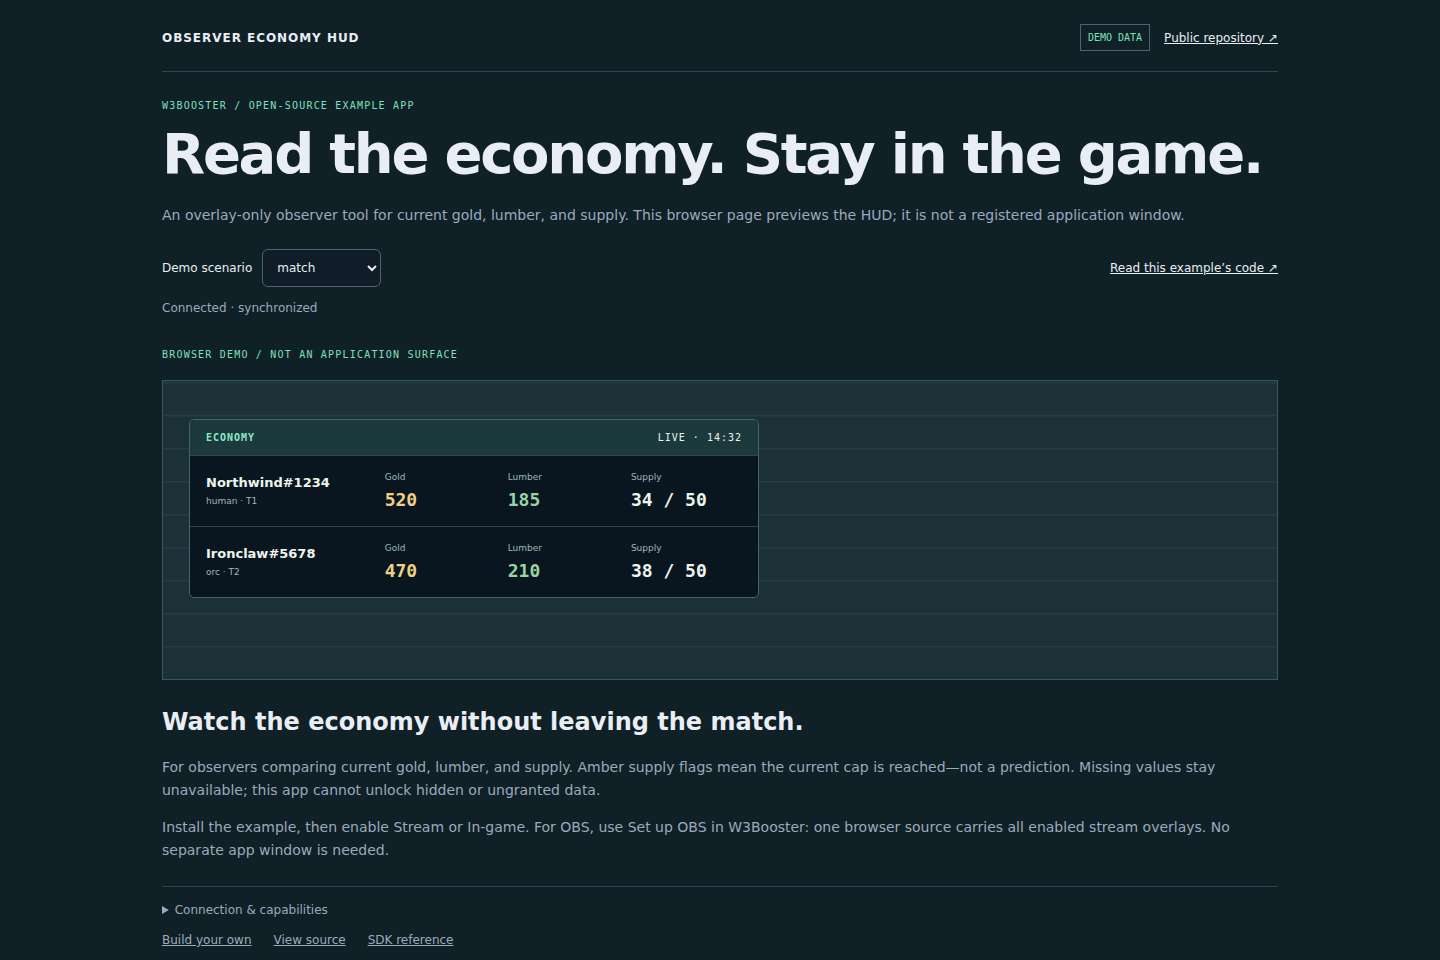
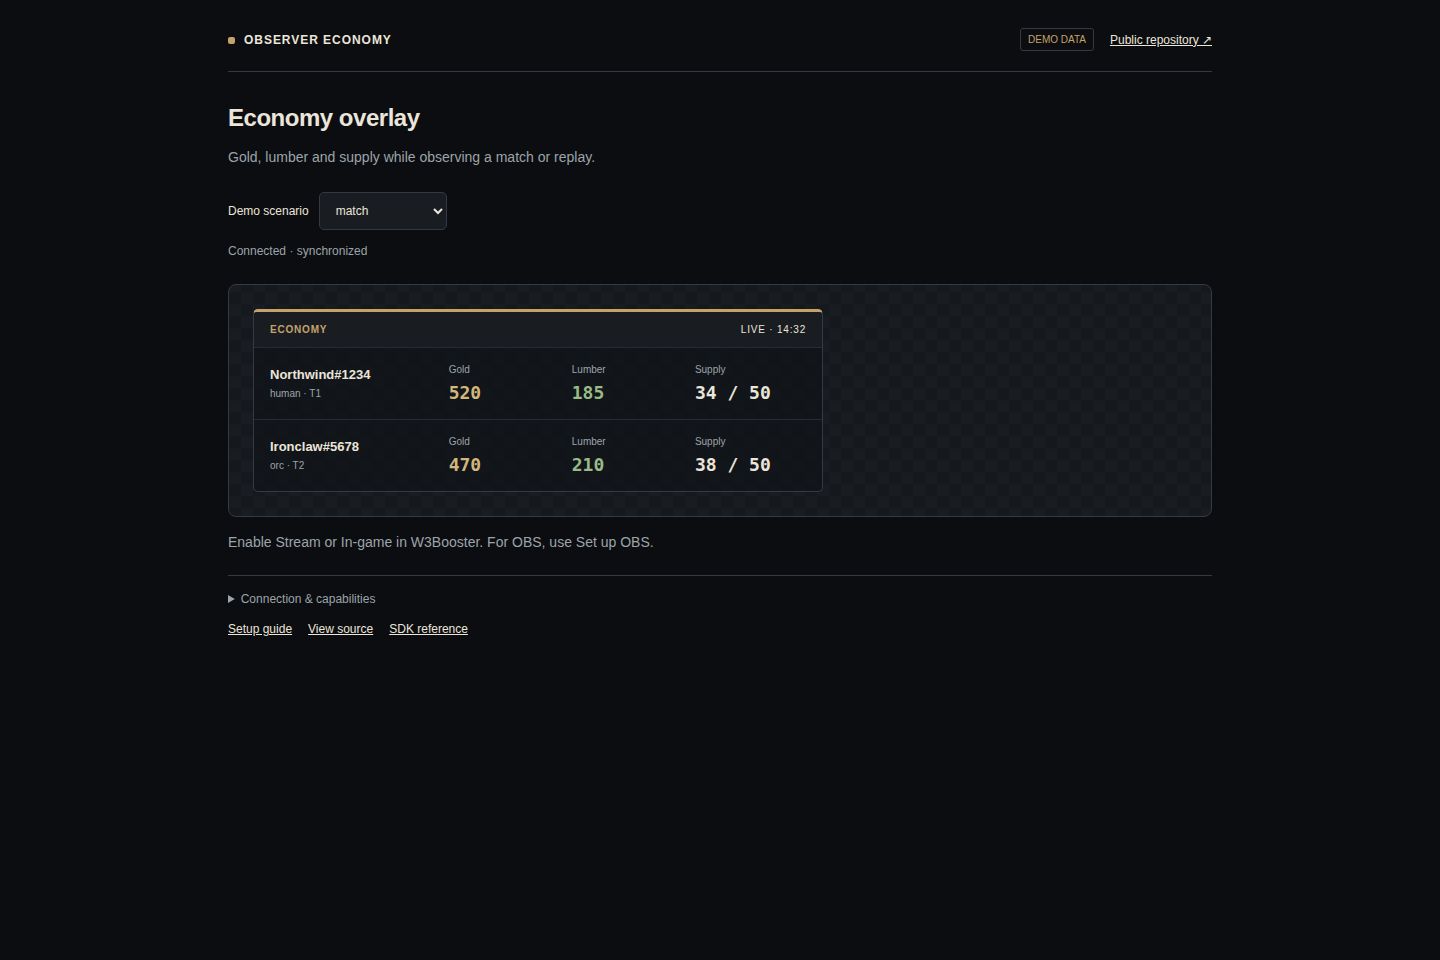
Use compact W3Booster styling and task-focused economy copy

diff --git a/src/hud.css b/src/hud.css
@@ -1,4 +1,19 @@
-:root{font-family:Inter,ui-sans-serif,system-ui,sans-serif;color:#e9eef4;background:#101720;font-synthesis:none}*{box-sizing:border-box}body{margin:0;--muted:#9caabc;--accent:#83d9c0}a{color:inherit}button,input,textarea,select{font:inherit}button{cursor:pointer;border:1px solid #51616f;border-radius:6px;padding:10px 14px;background:#1e3038;color:inherit}button:disabled{opacity:.45;cursor:not-allowed}input,textarea,select{border:1px solid #51616f;border-radius:6px;padding:10px;color:inherit;background:#101d28}textarea{width:100%;resize:vertical}h1,h2,h3,p{margin-top:0}p{color:var(--muted);line-height:1.65;font-size:14px}h1{font-size:clamp(32px,5vw,56px);letter-spacing:-.04em;margin:10px 0 18px}.shell{max-width:1180px;margin:auto;padding:24px 32px}header{display:flex;justify-content:space-between;align-items:center;gap:18px;border-bottom:1px solid #34424e;padding-bottom:20px}.brand{font-size:12px;font-weight:800;text-decoration:none;letter-spacing:.08em}.header-actions{display:flex;gap:14px;align-items:center;font-size:12px}.badge{font:10px ui-monospace,monospace;color:var(--accent);border:1px solid #51616f;padding:7px}.intro{padding:28px 0 8px}.eyebrow{font:10px ui-monospace,monospace;letter-spacing:.12em;color:var(--accent)}.controls{display:flex;flex-wrap:wrap;gap:14px;align-items:center;font-size:12px}.controls label{display:flex;gap:10px;align-items:center}.source-link{margin-left:auto}.notice{font-size:12px;margin:12px 0}.notice:empty{display:none}.content{margin:24px 0}.diagnostics{border-top:1px solid #34424e;padding:16px 0;color:var(--muted);font-size:12px}summary{cursor:pointer}pre{white-space:pre-wrap;overflow-wrap:anywhere}footer{display:flex;gap:22px;font-size:12px;color:var(--muted)}:focus-visible{outline:3px solid var(--accent);outline-offset:3px}[hidden]{display:none!important}html.overlay-root,body.overlay{background:transparent;min-height:0}.overlay .shell{max-width:none;padding:12px}.overlay header,.overlay .intro,.overlay .controls,.overlay .diagnostics,.overlay footer,.overlay .shell>.notice{display:none}.overlay .content{margin:0}.overlay[data-synchronized="false"] .content{visibility:hidden}@media(max-width:680px){.shell{padding:18px 14px}.header-actions{flex-wrap:wrap;justify-content:flex-end;gap:8px}.brand{max-width:120px}.source-link{margin-left:0}}
-body{background:#102027;--accent:#7ce0bb}.hud-stage{padding:38px 26px;margin:18px 0 28px;min-height:300px;background:repeating-linear-gradient(0deg,#1c3037 0 31px,#243d43 32px 33px);border:1px solid #37575a}.economy{width:570px;max-width:100%;background:#0a151df2;border:1px solid #466568;border-radius:5px;overflow:hidden;color:#edf5ed}.economy-heading{display:flex;justify-content:space-between;gap:12px;padding:12px 16px;background:#1c393e;font:10px ui-monospace,monospace;letter-spacing:.1em}.economy-heading strong{color:#8aebc8}.resource-card{display:grid;grid-template-columns:minmax(110px,1.5fr) repeat(3,minmax(60px,1fr));gap:12px;padding:16px;border-top:1px solid #31464c;align-items:center}.resource-player{display:grid;gap:6px;min-width:0}.resource-player strong{font-size:13px;overflow-wrap:anywhere}.resource-player span,.resource-value>span{font-size:9px;color:#9eb7bc}.resource-value{display:grid;gap:7px}.resource-value strong{font:700 18px ui-monospace,monospace;white-space:nowrap}.gold strong{color:#efd185}.lumber strong{color:#95d4a3}.supply.blocked{color:#ffd18b}.supply.blocked>span{color:#ffd18b}.unavailable{grid-column:1/-1;color:#c4b997;font-size:10px}.hud-preview h2{font-size:24px}.overlay .economy{width:570px}@media(max-width:460px){.hud-stage{padding:12px}.resource-card{grid-template-columns:repeat(3,1fr);gap:10px}.resource-player{grid-column:1/-1}.resource-value strong{font-size:16px}}
-:root.overlay-root{color-scheme:normal}
-.economy-notice{padding:20px 22px;border-left:3px solid var(--accent)}.economy-notice .eyebrow{display:block;margin-bottom:10px}.economy .economy-notice h2{margin:0 0 8px;font-size:18px;line-height:1.35}.economy-notice p{margin:0;font-size:13px;color:#b1c6c9}
+body { --accent: #c6a26b; }
+.hud-stage { padding: 24px; border: 1px solid var(--border); border-radius: 8px; background: repeating-conic-gradient(#191d22 0 25%, #15181c 0 50%) 0/24px 24px; }
+.economy { width: 570px; max-width: 100%; background: #121519f5; border: 1px solid var(--border); border-top: 3px solid var(--accent); border-radius: 5px; overflow: hidden; color: var(--text); }
+.economy-heading { display: flex; justify-content: space-between; gap: 12px; padding: 12px 16px; background: var(--raised); font-size: 10px; letter-spacing: .08em; }
+.economy-heading strong { color: var(--accent); }
+.resource-card { display: grid; grid-template-columns: minmax(110px,1.5fr) repeat(3,minmax(60px,1fr)); gap: 12px; padding: 16px; border-top: 1px solid #272c32; align-items: center; }
+.resource-player { display: grid; gap: 6px; min-width: 0; }
+.resource-player strong { font-size: 13px; overflow-wrap: anywhere; }
+.resource-player span, .resource-value > span { font-size: 10px; color: var(--muted); }
+.resource-value { display: grid; gap: 7px; }
+.resource-value strong { font: 700 18px ui-monospace, monospace; white-space: nowrap; }
+.gold strong { color: #d2b77c; }
+.lumber strong { color: #9abb89; }
+.supply.blocked, .supply.blocked > span { color: #dbad70; }
+.unavailable { grid-column: 1/-1; color: #c4b997; font-size: 11px; }
+.economy-notice { padding: 20px; }
+.economy-notice h2 { margin: 10px 0; }
+.economy-notice p { margin: 0; font-size: 13px; }
+@media (max-width: 460px) { .hud-stage { padding: 12px; } .resource-card { grid-template-columns: repeat(3,1fr); } .resource-player { grid-column: 1/-1; } .resource-value strong { font-size: 16px; } }

diff --git a/src/main.ts b/src/main.ts
@@ -1,3 +1,4 @@
+import './shell.css';
 import './hud.css';
 import { classifyW3BoosterError } from '@w3booster/sdk';
 import { w3boosterApp } from './w3booster.generated';
@@ -9,7 +10,7 @@ document.body.dataset.application = w3boosterApp.clientId;
 // One repository, one app.
 const view = query.get('view') || 'application';
 const theme = 'economy';
-const presentation = { brand: 'OBSERVER ECONOMY', title: 'Read the economy. Stay in the game.', description: 'An overlay-only observer tool for current gold, lumber, and supply. This browser page previews the HUD; it is not a registered application window.' };
+const presentation = { brand: 'OBSERVER ECONOMY', title: 'Economy overlay', description: 'Gold, lumber and supply while observing a match or replay.' };
 document.body.dataset.theme = theme;
 document.title = presentation.brand + ' · W3Booster Examples';
 // Direct visits start offline; registered W3Booster URLs explicitly select demo=0.
@@ -26,7 +27,7 @@ const repository = element('a', 'Public repository ↗', 'repository-link'); rep
 const badge = element('span', demo ? 'DEMO DATA' : 'LIVE CONNECTION', 'badge'); headerActions.append(badge, repository); header.append(headerActions);
 const intro = element('div', '', 'intro');
 const appTitle = element('h1', presentation.title);
-intro.append(element('p', 'W3BOOSTER / OPEN-SOURCE EXAMPLE APP', 'eyebrow'), appTitle);
+intro.append(appTitle);
 intro.append(element('p', presentation.description));
 const status = element('p', 'Starting…', 'notice'); status.setAttribute('role', 'status');
 const content = element('div', '', 'content');
@@ -44,10 +45,9 @@ if (demo) {
 }
 const feedback = element('p', '', 'notice'); feedback.setAttribute('role', 'status');
 const footer = element('footer');
-for (const [text, href] of [['Build your own', 'https://website.w3booster.com/developer/first-app/'], ['View source', 'https://github.com/W3Booster/app-example-resource-monitor'], ['SDK reference', 'https://website.w3booster.com/developer/api/']]) {
+for (const [text, href] of [['Setup guide', 'https://website.w3booster.com/developer/first-app/'], ['View source', 'https://github.com/W3Booster/app-example-resource-monitor'], ['SDK reference', 'https://website.w3booster.com/developer/api/']]) {
   const link = element('a', text); link.href = href; footer.append(link);
 }
-const sourceLink = element('a', 'Read this example’s code ↗', 'source-link'); sourceLink.href = 'https://github.com/W3Booster/app-example-resource-monitor/blob/main/src/hud.ts'; sourceLink.target = '_blank'; sourceLink.rel = 'noopener noreferrer'; controls.append(sourceLink);
 shell.append(header, intro);
 shell.append(controls, status, content, feedback, diagnostic, footer); root.replaceChildren(shell);
 const demoOptions = demo ? { state: (await import('./scenarios')).scenarioState(query.get('scenario') || 'match'), interval: query.get('capture') === '1' || ['no-match', 'finished'].includes(query.get('scenario') || '') ? 0 : 1000 } : undefined;

diff --git a/src/shell.css b/src/shell.css
@@ -1,0 +1,41 @@
+:root {
+  color-scheme: dark; font-family: Inter, "Segoe UI", sans-serif; font-size: 14px;
+  --bg: #0b0d10; --surface: #121519; --raised: #191d22; --border: #343a42;
+  --text: #ebe5da; --muted: #9da4aa; --accent: #85ad72;
+  color: var(--text); background: var(--bg);
+}
+* { box-sizing: border-box; }
+body { margin: 0; background: var(--bg); }
+a { color: inherit; }
+button, input, select, textarea { font: inherit; color: inherit; border: 1px solid var(--border); border-radius: 5px; background: var(--raised); padding: 10px 12px; }
+button { min-height: 38px; cursor: pointer; font-weight: 650; }
+button:hover:enabled { border-color: var(--accent); }
+button:disabled { opacity: .45; cursor: not-allowed; }
+h1, h2, h3 { margin-top: 0; font-weight: 650; letter-spacing: -.02em; overflow-wrap: anywhere; }
+h1 { font-size: 24px; margin: 8px 0; }
+h2 { font-size: 18px; }
+p { color: var(--muted); line-height: 1.6; }
+.shell { max-width: 1040px; margin: auto; padding: 28px; }
+header, .header-actions, .controls, footer { display: flex; gap: 16px; align-items: center; flex-wrap: wrap; }
+header { justify-content: space-between; border-bottom: 1px solid var(--border); padding-bottom: 20px; }
+.brand { font-size: 12px; font-weight: 800; letter-spacing: .08em; text-decoration: none; }
+.brand::before { content: ''; display: inline-block; width: 7px; height: 7px; margin-right: 9px; border-radius: 2px; background: var(--accent); }
+.header-actions, .controls, footer, .notice { font-size: 12px; }
+.badge { font-size: 10px; color: var(--accent); border: 1px solid var(--border); border-radius: 3px; padding: 5px 7px; }
+.intro { padding: 24px 0 10px; }
+.eyebrow { font-size: 10px; font-weight: 800; letter-spacing: .1em; color: var(--accent); }
+.controls label { display: flex; gap: 10px; align-items: center; }
+.content { margin: 22px 0; }
+.notice:empty, [hidden] { display: none !important; }
+.diagnostics { border-top: 1px solid var(--border); padding: 16px 0; font-size: 12px; color: var(--muted); }
+summary { cursor: pointer; }
+pre { white-space: pre-wrap; overflow-wrap: anywhere; }
+:focus-visible { outline: 2px solid var(--accent); outline-offset: 3px; }
+/* The transparent canvas contract is independent of the painted dark controls. */
+:root.overlay-root { color-scheme: normal; }
+html.overlay-root, body.overlay { background: transparent; min-height: 0; }
+.overlay .shell { max-width: none; padding: 12px; }
+.overlay header, .overlay .intro, .overlay .controls, .overlay .diagnostics, .overlay footer, .overlay .shell > .notice { display: none; }
+.overlay .content { margin: 0; }
+.overlay[data-synchronized="false"] .content { visibility: hidden; }
+@media (max-width: 600px) { .shell { padding: 18px 14px; } .header-actions { gap: 10px; } select { max-width: 100%; } }

diff --git a/src/hud.ts b/src/hud.ts
@@ -7,7 +7,7 @@ export function observerMessage(state: MatchState | null): [string, string] | nu
   if (!state) return ['Waiting for match data', 'The HUD will appear once W3Booster delivers fresh observer or replay data.'];
   if (state.match.status === 'none') return ['Waiting for an observer game', 'Observe a Warcraft III match or watch a replay to see each player’s gold, lumber, and supply.'];
   if (state.match.status === 'finished') return ['Observer game ended', 'Observe another match or watch a replay to resume the economy HUD.'];
-  if (!isObserverOrReplayMatch(state.match)) return ['Observer mode required', 'This example only displays resources while observing a match or watching a replay. It stays inactive when you are playing.'];
+  if (!isObserverOrReplayMatch(state.match)) return ['Observer mode required', 'Resources are shown only while observing or watching a replay.'];
   if (state.match.status !== 'running') return ['Waiting for the observer game to start', 'The economy HUD will appear when this match starts.'];
   return null;
 }
@@ -49,8 +49,7 @@ export function resources(state: MatchState | null) {
 
 export function preview(state: MatchState | null) {
   const view = element('section', '', 'hud-preview');
-  view.append(element('span', 'BROWSER DEMO / NOT AN APPLICATION SURFACE', 'eyebrow'));
   const stage = element('div', '', 'hud-stage'); stage.append(resources(state));
-  view.append(stage, element('h2', 'Watch the economy without leaving the match.'), element('p', 'For observers comparing current gold, lumber, and supply. Amber supply flags mean the current cap is reached—not a prediction. Missing values stay unavailable; this app cannot unlock hidden or ungranted data.'), element('p', 'Install the example, then enable Stream or In-game. For OBS, use Set up OBS in W3Booster: one browser source carries all enabled stream overlays. No separate app window is needed.'));
+  view.append(stage, element('p', 'Enable Stream or In-game in W3Booster. For OBS, use Set up OBS.'));
   return view;
 }

diff --git a/README.md b/README.md
@@ -1,6 +1,6 @@
 # Observer Economy
 
-A focused W3Booster example by **W3Pad**. Compare current gold, lumber, and supply without leaving the match. This is an **overlay-only** observer tool, not a dashboard squeezed into a corner.
+A focused W3Booster example. Compare current gold, lumber, and supply without leaving the match. This is an **overlay-only** observer tool, not a dashboard squeezed into a corner.
 
 [Try the demo](https://w3booster.github.io/app-example-resource-monitor/) · [Developer docs](https://website.w3booster.com/developer/) · [All examples](https://website.w3booster.com/developer/examples/)
 
@@ -34,6 +34,8 @@ When the connection is unsynchronized, overlay output remains hidden to avoid
 presenting a stale match state as current.
 
 An amber supply indicator means current supply has reached a positive cap; it does not infer a future supply block. No hero roster, trend history, paid-data bypass, or hidden-information access is included. Scopes only request data; the host's authorization and available match data remain authoritative.
+
+The interface uses W3Booster-style dark surfaces, compact controls and a distinct accent. `src/shell.css` contains the small, standalone shell; the feature stylesheet contains only this app’s layout. Headings describe the task, not a marketing message.
 
 ## Surfaces and minimum permissions
 
